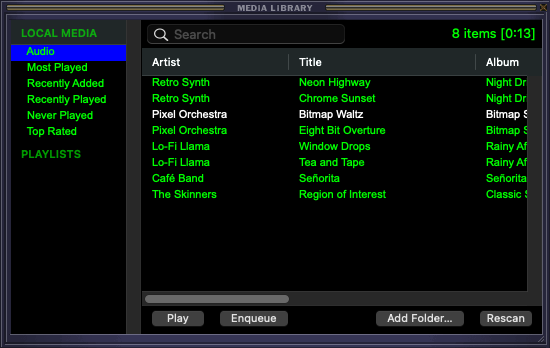
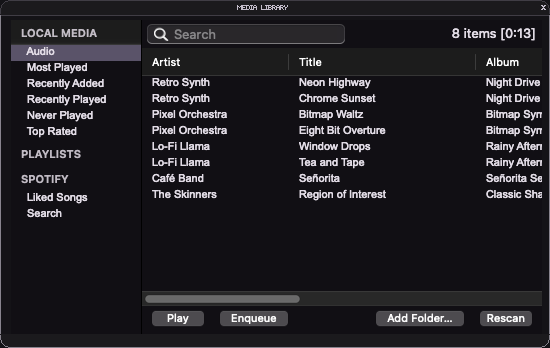
Show bundled AndAmp Dark skin in screenshots

diff --git a/docs/index.html b/docs/index.html
@@ -263,7 +263,7 @@ footer .fine { margin-top: 14px; font-size: 13px; color: #6f6f90; max-width: 80c
     </div>
     <div class="stage rise d2">
       <img class="lib" src="library.png" width="550" height="348" alt="MacAmp media library window">
-      <img class="main" src="screenshot.png" width="550" height="928" alt="MacAmp main window, equalizer and playlist editor with the classic base skin">
+      <img class="main" src="screenshot.png" width="550" height="928" alt="MacAmp main window, equalizer and playlist editor with the bundled AndAmp Dark skin">
     </div>
   </div>
 
